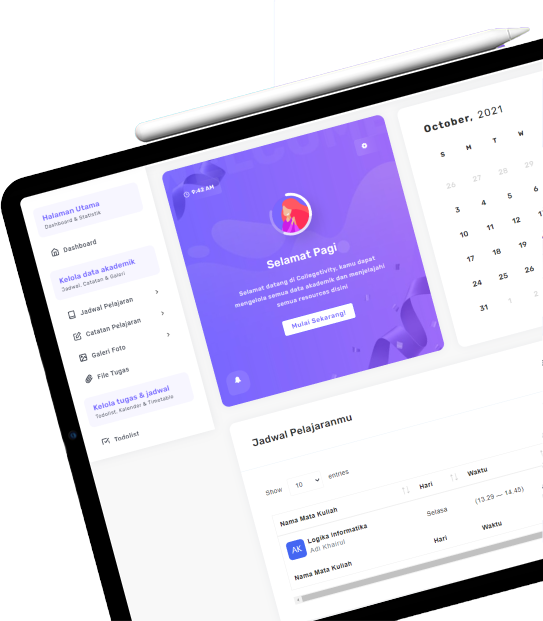
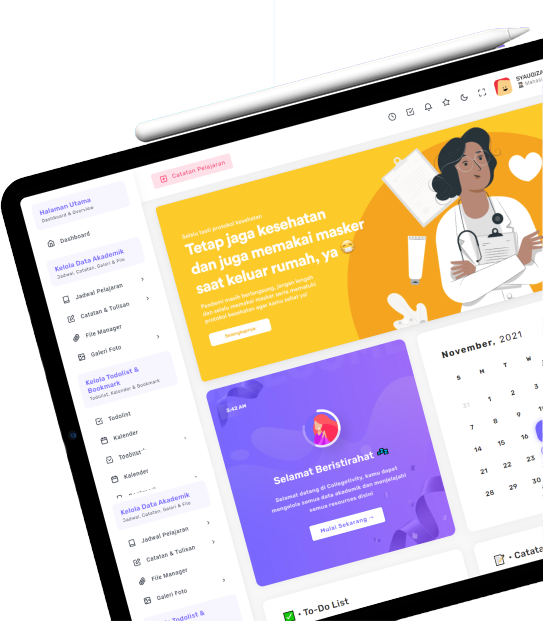
feat: finalizing fix contact design

diff --git a/public/landio/assets/css/style.css b/public/landio/assets/css/style.css
@@ -2970,7 +2970,7 @@ textarea {
 }
 
 .hero-area-v7 .hero-content .hero-title {
-	font-size: 80px;
+	font-size: 64px;
 	line-height: 1.05;
 	letter-spacing: -2px;
 	margin-bottom: 45px;

diff --git a/resources/views/pages/frontend/index.blade.php b/resources/views/pages/frontend/index.blade.php
@@ -3,9 +3,7 @@
 @section('title', 'Collegetivity — Aplikasi yang Membantu Dunia Perkuliahanmu!')
 @section('content')
 
-
 <div class="page-wrapper">
-
     <!--====== Start Hero Area ======-->
     <section class="hero-area-v7">
         <div class="container-fluid">
@@ -16,8 +14,8 @@
                         <span class="font-weight-normal">📢</span>• Collegetivity hadir dalam versi beta!
                     </span>
                 </span>
-                <h2 class="hero-title wow fadeInLeft" data-wow-delay="0.2s">Website yang membantu dunia perkuliahanmu!
-                </h2>
+                <h3 class="hero-title wow fadeInLeft" data-wow-delay="0.2s">Website yang membantu dunia perkuliahanmu!
+                </h3>
                 <p class="wow fadeInUp" data-wow-delay="0.3s">
                     🎓 • Collegetivity hadir untuk membantu kalian para mahasiswa agar lebih produktif, terorganisir dan
                     pekerjaanmu lebih mudah!
@@ -32,7 +30,7 @@
                 </span>
             </div>
             <div class="hero-img d-none d-lg-block wow fadeInUp" data-wow-delay="0.2s">
-                <img src="{{url('landio/assets/img/hero/home-software.png')}}" alt="Image">
+                <img src="{{url('landio/assets/img/hero/home-software-2.png')}}" alt="Image">
             </div>
         </div>
     </section>
@@ -44,7 +42,8 @@
             <div class="row justify-content-center">
                 <div class="col-lg-10">
                     <div class="common-heading text-center heading-white m-b-30">
-                        <h2 class="title">Pandemi membuat kita harus melakukan semuanya secara online, dengan kami anda
+                        <h2 class="title">Pandemi membuat kita harus melakukan semuanya secara online, dengan
+                            kami kamu
                             bisa lebih produktif</h2>
                     </div>
                 </div>
@@ -56,7 +55,7 @@
                         <div class="icon">
                             <i class="far fa-calendar"></i>
                         </div>
-                        <h4 class="title"><a href="#">Buat Jadwalmu Terorganisir</a></h4>
+                        <h4 class="title"><a href="#">Buat Tugas & Jadwalmu Terorganisir</a></h4>
                         <p>
                             Collegetivity adalah tempat kamu mengatur semua data akademikmu, dilengkapi fitur jadwal
                             pelajaran, catatan pelajaran dan lain lain yang membuatmu terorganisir
@@ -69,7 +68,7 @@
                         <div class="icon">
                             <i class="fas fa-folder-open"></i>
                         </div>
-                        <h4 class="title"><a href="#">Simpan File Kuliahmu</a></h4>
+                        <h4 class="title"><a href="#">Simpan File Tugas & Akademikmu</a></h4>
                         <p>
                             Jangan takut kalau file tugas atau file yang berkaitan dengan kuliahmu hilang, dengan
                             collegetivity kamu bisa dengan aman menyimpan file file tersebut
@@ -82,7 +81,7 @@
                         <div class="icon">
                             <i class="far fa-bookmark"></i>
                         </div>
-                        <h4 class="title"><a href="#">Resources Yang Membantu</a></h4>
+                        <h4 class="title"><a href="#">Banyak Resources yang Membantu</a></h4>
                         <p>
                             Disini juga kami menyediakan banyak resources mulai dari website atau thread yang bakal
                             membantu kamu menjadi lebih produktif dari sebelumnya

diff --git a/resources/views/pages/frontend/contact.blade.php b/resources/views/pages/frontend/contact.blade.php
@@ -1,16 +1,15 @@
 @extends('layouts.frontend.minor')
 
-@section('title', 'Kontak — Collegetivity')
+@section('title', 'Kontak Kami — Collegetivity')
 @section('content')
 
-<!--====== Start Header ======-->
 <header class="template-header navbar-left absolute-header nav-primary-5 submenu-primary-5 sticky-header">
     <div class="container-fluid fluid-gap-70">
         <div class="header-inner">
             <div class="header-left">
                 <div class="brand-logo">
                     <a href="{{url('/')}}">
-                        <h1>🎓</h1>
+                        <h1 class="font-weight-normal">🎓</h1>
                     </a>
                 </div>
                 <nav class="nav-menu d-none d-xl-block">
@@ -108,7 +107,7 @@
         <div class="canvas-overlay"></div>
         <div class="canvas-inner">
             <div class="canvas-logo">
-                <h1>🎓</h1>
+                <h1 class="font-weight-normal">🎓</h1>
             </div>
             <div class="about-us">
                 <h5 class="canvas-widget-title">Tentang Kami</h5>
@@ -127,7 +126,7 @@
                     <li>
                         <i class="far fa-envelope-open"></i>
                         <a href="mailto:collegetivity@gmail.com">collegetivity@gmail.com</a>
-                        <a href="#" target="_blank">www.collegetivity.com</a>
+                        <a href="#" target="_blank">collegetivity.herokuapp.com</a>
                     </li>
                     <li>
                         <i class="far fa-phone"></i>
@@ -149,7 +148,6 @@
     <div class="container">
         <div class="page-title-content text-center mt-5">
             <h1 class="page-title">Kontak Kami</h1>
-
             <ul class="breadcrumb-nav">
                 <li><a href="{{url('/')}}">Beranda</a></li>
                 <li class="active">Kontak Kami</li>
@@ -193,7 +191,7 @@
                         <div class="info-body">
                             <h5 class="title">Alamat Email</h5>
                             <p><a href="mailto:apps.collegetivity@gmail.com">apps.collegetivity@gmail.com</a></p>
-                            <p><a href="www.collegetivity.com" target="_blank">www.collegetivity.com</a></p>
+                            <p><a href="collegetivity.herokuapp.com" target="_blank">collegetivity.herokuapp.com</a></p>
                         </div>
                     </div>
                     <div class="contact-info-box wow fadeInUp" data-wow-delay="0.5s">
@@ -212,7 +210,9 @@
                 <div class="contact-form-area m-t-md-100">
                     <div class="common-heading tagline-boxed m-b-40">
                         <span class="tagline">Kirim kami sebuah pesan</span>
-                        <h2 class="title">Ada pertanyaan ? <br> Kirim pesan dibawah ini 👋🏻</h2>
+                        <h2 class="title">Ada pertanyaan atau pesan? <br> Kirim pesan dibawah ini <span
+                                class="font-weight-normal">👋🏻</span>
+                        </h2>
                     </div>
                     <div class="contact-form-v2">
                         <form>

diff --git a/resources/views/auth/register.blade.php b/resources/views/auth/register.blade.php
@@ -25,12 +25,21 @@
             <div class="col-xl-5 p-0">
                 <div class="login-card">
                     <div class="login-main col-10 col-md-10">
-                        <x-auth-validation-errors class="mb-4" :errors="$errors" />
                         <form method="POST" action={{route('register')}} class="theme-form">
                             @csrf
                             <h1>🎓</h1>
                             <h4>Daftarkan akun kamu sekarang</h4>
                             <p class="mb-2">Masukan data yang diperlukan untuk membuat akun</p>
+
+                            @if ($errors->any())
+                            <div class="alert alert-danger py-1 mb-2">
+                                <ul>
+                                    @foreach($errors->all() as $error)
+                                    <li>{{ $error }}</li>
+                                    @endforeach
+                                </ul>
+                            </div>
+                            @endif
 
                             <label class="col-form-label pt-0">Nama kamu</label>
                             <div class="input-group mb-3">

diff --git a/resources/views/auth/login.blade.php b/resources/views/auth/login.blade.php
@@ -30,6 +30,17 @@
                             <h1>🎓</h1>
                             <h4>Masuk menggunakan akun kamu</h4>
                             <p class="mb-2">Masukkan email & password kamu buat login</p>
+
+                            @if ($errors->any())
+                            <div class="alert alert-danger py-1 mb-1">
+                                <ul>
+                                    @foreach($errors->all() as $error)
+                                    <li>{{ $error }}</li>
+                                    @endforeach
+                                </ul>
+                            </div>
+                            @endif
+
                             <label class="col-form-label">Alamat Email</label>
                             <div class="input-group mb-3">
                                 <div class="input-group-prepend">

diff --git a/resources/views/includes/frontend/navbar.blade.php b/resources/views/includes/frontend/navbar.blade.php
@@ -123,7 +123,7 @@
                     <li>
                         <i class="far fa-envelope-open"></i>
                         <a href="mailto:apps.collegetivity@gmail.com">apps.collegetivity@gmail.com</a>
-                        <a href="#" target="_blank">www.collegetivity.com</a>
+                        <a href="#" target="_blank">collegetivity.herokuapp.com</a>
                     </li>
                     <li>
                         <i class="far fa-phone"></i>

diff --git a/resources/views/includes/backend/footer.blade.php b/resources/views/includes/backend/footer.blade.php
@@ -2,7 +2,7 @@
     <div class="container-fluid">
         <div class="row">
             <div class="col-md-12 footer-copyright text-center">
-                <p class="mb-0">Copyright 2021 © Collegetivity by Dosyafaw for INVFEST 6.0</p>
+                <p class="mb-0">Copyright 2021 © Collegetivity by Dosyafaw Team for INVFEST 6.0</p>
             </div>
         </div>
     </div>

diff --git a/resources/views/pages/backend/index.blade.php b/resources/views/pages/backend/index.blade.php
@@ -11,7 +11,6 @@
 @endpush
 
 <div class="container-fluid">
-
     <div class="row mb-4">
         <div class="col-xl-12 col-12 mt-4">
             <div class="splide"
